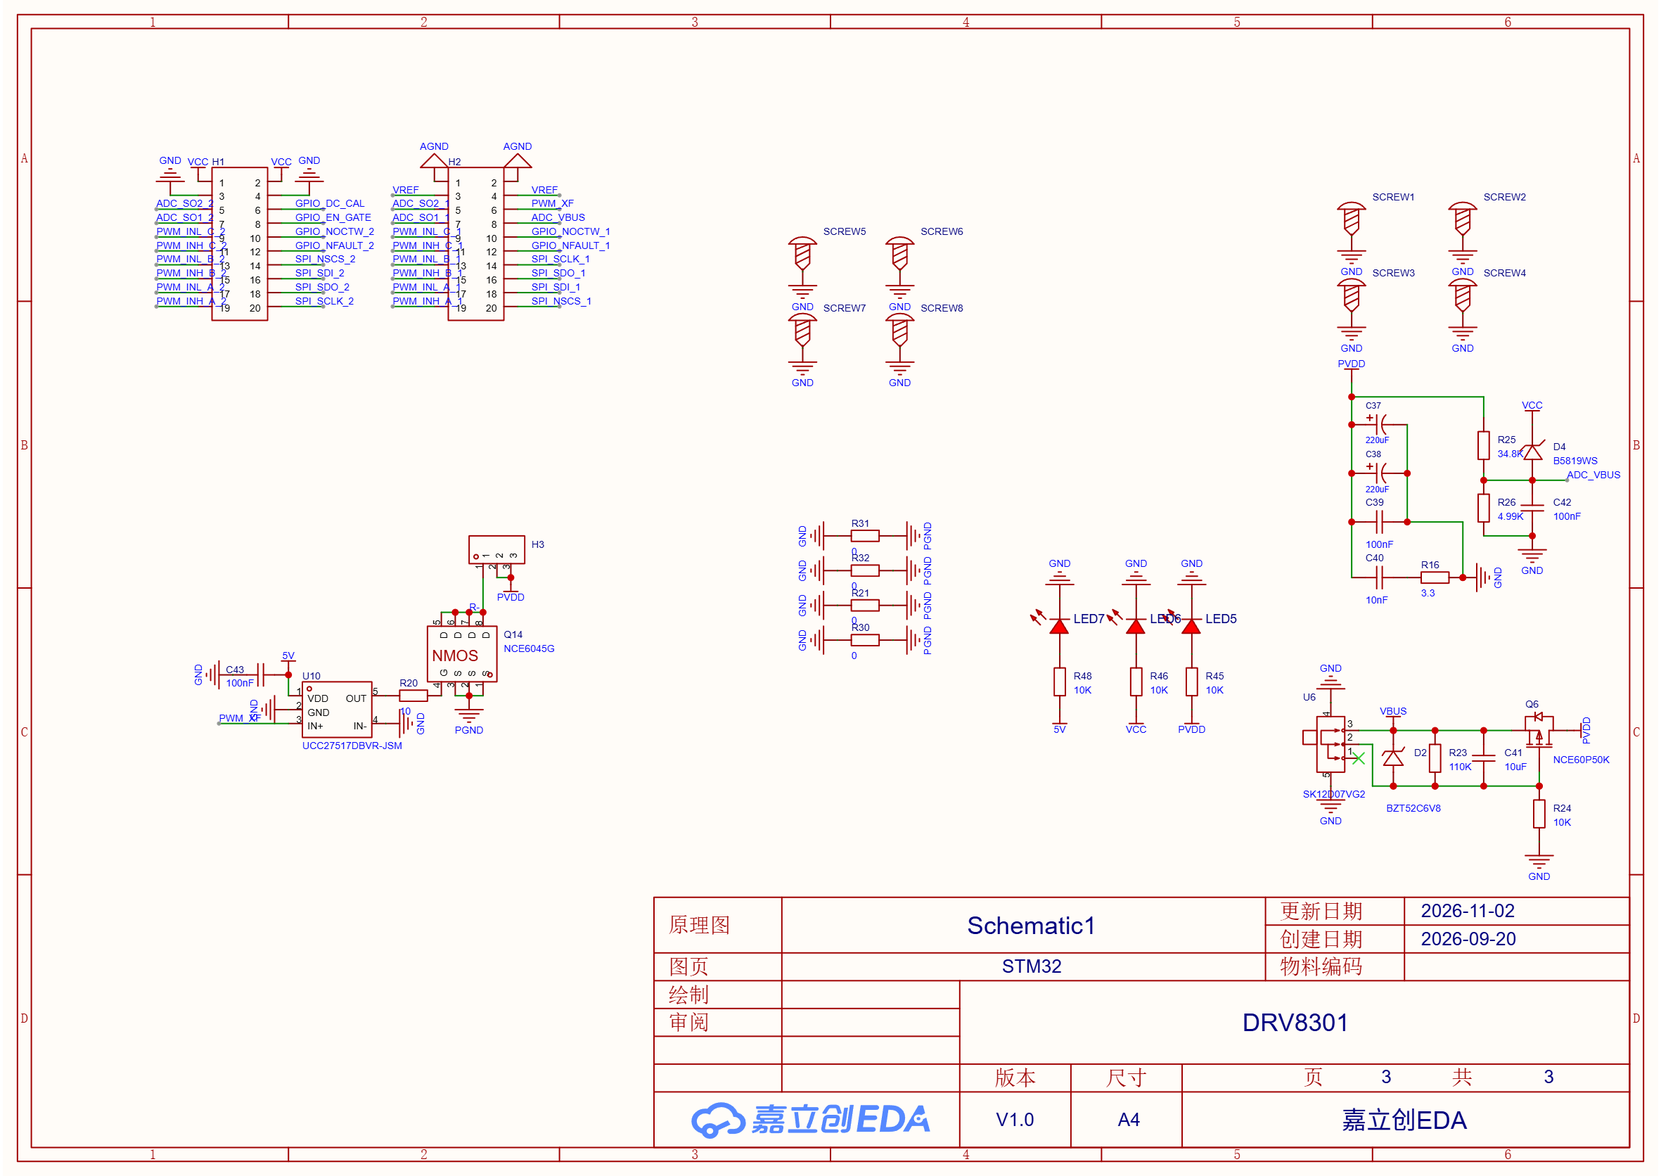
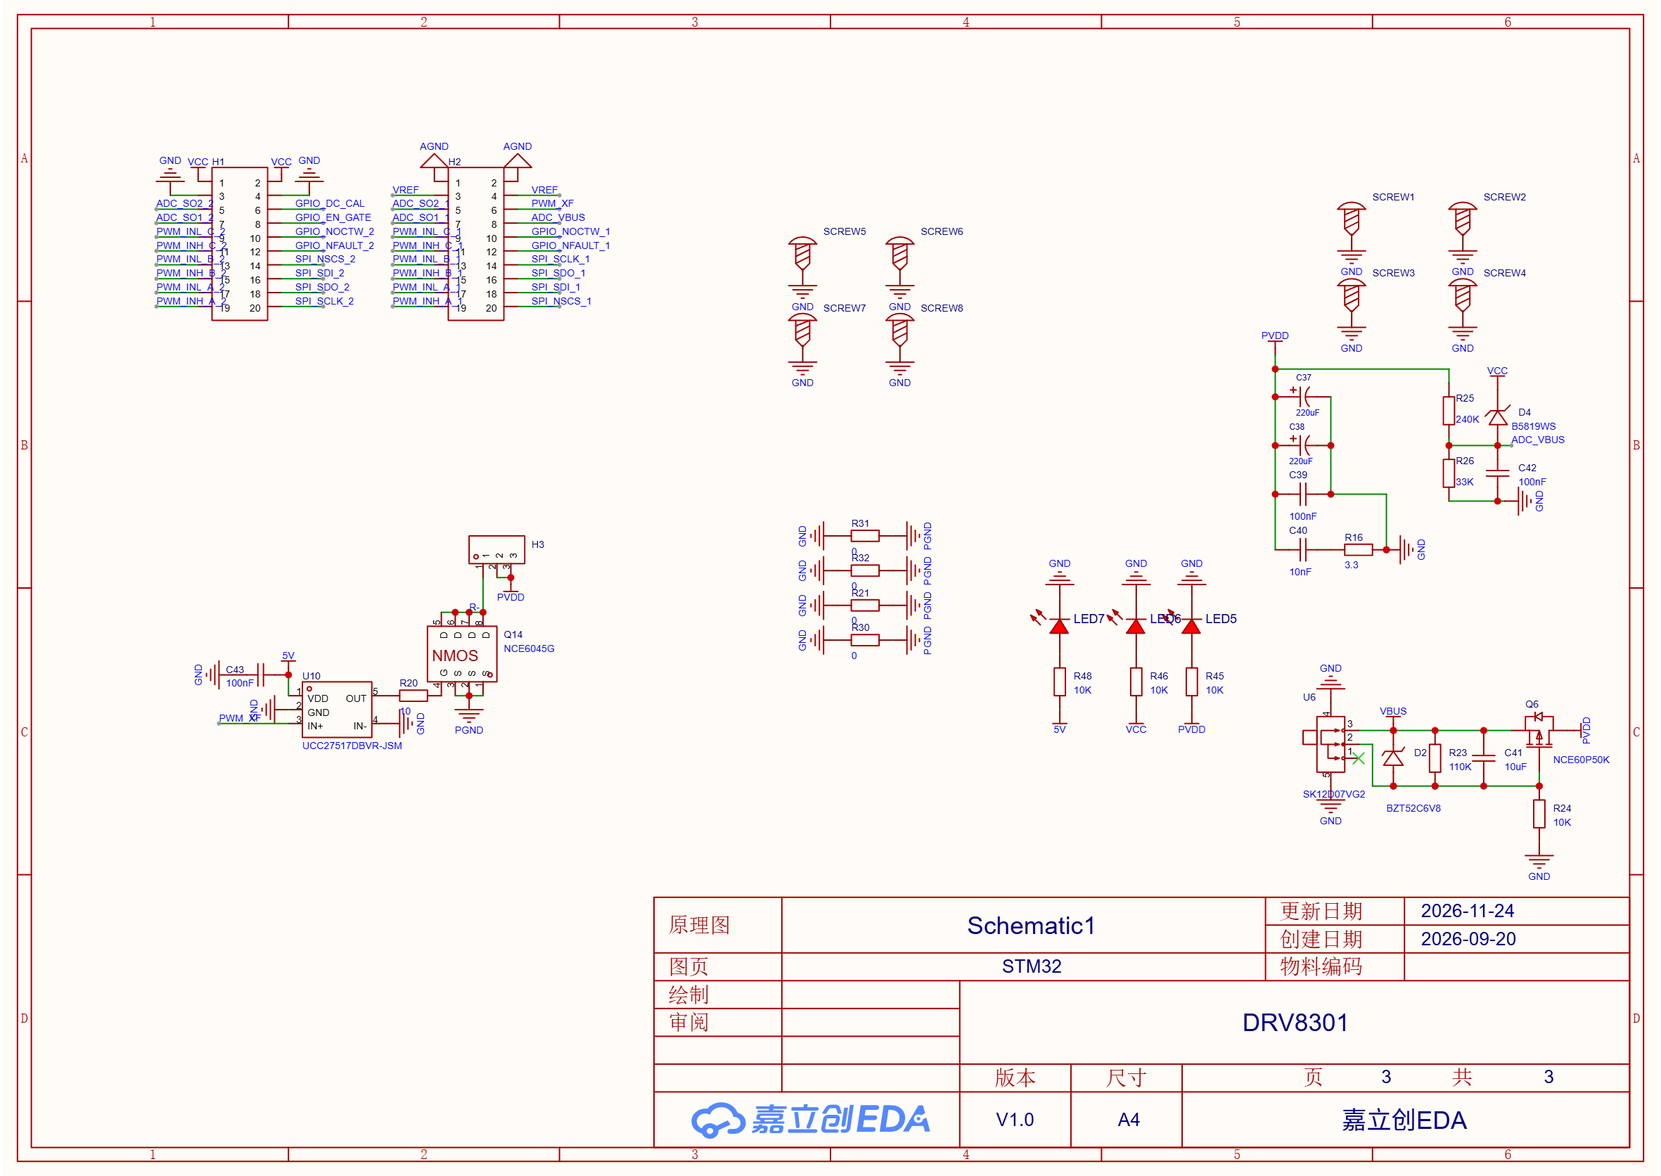
fix: 修正母线采样并支持无母线调试
- 实物分压 240k/33k（原理图已更新）：满量程 27.5 V、源阻抗 ≈29kΩ、
  τ≈2.9ms；adc.c 注释、参数文档、设计方案、hardware README 与
  实现指南 HTML 一并同步
- 母线电压读取提前到 EN_GATE 之前；nFAULT 超时后仅在两片都只有
  GVDD_UV/PVDD_UV 时降级继续，其余故障仍停机——无母线也能做
  SPI/ADC 开发，安全检查不削弱
- 回填 2026-11-24 验证：vbus 25.1V 对电池 24.9V，SO/DC_CAL/DRV
  正常；记录 R25/R26 焊反导致顶格的排查结论

验证：UV4 构建 0 错 0 警

Changed region(s): [[0.7727, 0.311, 0.9581, 0.4976]]

diff --git a/docs/天鹅座-电驱固件实现指南.html b/docs/天鹅座-电驱固件实现指南.html
@@ -424,7 +424,7 @@ footer code { color: var(--ink); }
   <tbody>
     <tr><td>PA0 / PA1</td><td>ADC1_IN1 / IN2（注入组）</td><td>M1_IA / M1_IB（DRV8301-1 SO1/SO2）</td><td>TIM8_TRGO2（OC5REF）</td></tr>
     <tr><td>PC0 / PC1</td><td>ADC2_IN6 / IN7（注入组）</td><td>M2_IA / M2_IB（DRV8301-2 SO1/SO2）</td><td>TIM1_TRGO2（OC5REF）</td></tr>
-    <tr><td>PC2</td><td>ADC1_IN8（规则组）</td><td>VBUS_SENSE（100k+10k 分压，满量程 36.3 V）</td><td>软件触发</td></tr>
+    <tr><td>PC2</td><td>ADC1_IN8（规则组）</td><td>VBUS_SENSE（240k+33k 分压，满量程 27.5 V）</td><td>软件触发</td></tr>
     <tr><td>PB0 / PB1</td><td>ADC1_IN15 / IN12（规则组）</td><td>电机 NTC ×2</td><td>软件触发</td></tr>
     <tr><td>PC3</td><td>ADC2_IN9（规则组）</td><td>母线总电流（预留）</td><td>软件触发</td></tr>
   </tbody>
@@ -604,7 +604,7 @@ uint16_t ib = HAL_ADCEx_InjectedGetValue(&amp;hadc1, ADC_INJECTED_RANK_2);
     <p><code>HAL_GPIO_WritePin(EN_GATE…)SET</code>，然后轮询 <code>GPIOA-&gt;IDR bit15</code> 与 <code>GPIOD-&gt;IDR bit2</code> 都为高。引脚是 AF 模式（BKIN），但 IDR 在 AF 输入下照样反映电平，直接读即可。超时（20~50 ms 量级）判失败。</p>
     <p><b>为什么等</b>：EN_GATE 拉高后芯片约 5~10 ms SPI 才就绪；nFAULT 变高表示可接收 PWM。EN_GATE 低电平期间 SPI 不可用（内部稳压器休眠）。</p></li>
   <li><span class="t">DRV8301 配置并读回校验</span>
-    <p>两片逐个：SPI 切 DRV 模式 → 写 CTRL1（<b>OC_MODE=锁存关断</b>、<b>增益 40 V/V</b>、6-PWM 模式、驱动电流）→ 写 CTRL2 → 读回比对 → 切回编码器模式。<b>先配再开 PWM，任何情况下不例外。</b>寄存器细节见第 8 节。</p></li>
+    <p>两片逐个：SPI 切 DRV 模式 → 写 CTRL1（<b>OC_MODE=锁存关断</b>、<b>增益 10 V/V</b>、6-PWM 模式、驱动电流）→ 写 CTRL2 → 读回比对 → 切回编码器模式。<b>先配再开 PWM，任何情况下不例外。</b>寄存器细节见第 8 节。</p></li>
   <li><span class="t">DC_CAL 读零点</span>
     <p>PB10 拉高 → 注入两通道读数应 ≈2048（±5% 起步）→ 存到电机结构 → PB10 拉低。</p>
     <p><b>为什么此时能读</b>：DC_CAL 高时 SO 输出固定为 REF 电平（1.65 V）；<b>必须在 EN_GATE 之后</b>——EN_GATE 才使能采样放大器。偏离过多说明 DRV 或采样链有问题，停。</p>
@@ -671,7 +671,7 @@ void HAL_TIMEx_BreakCallback(TIM_HandleTypeDef *htim)
 <h3>电流换算</h3>
 <pre class="codeblk"><span class="c">/* 每 LSB 的电流（3.3V 参考） */</span>
 V_LSB  = VDDA_real / 4095;                <span class="c">/* ≈ 0.806 mV */</span>
-I_PER_LSB = V_LSB / (G × Rs)              <span class="c">/* G=40 V/V, Rs=0.25 mΩ → ≈ 0.081 A/LSB */</span>
+I_PER_LSB = V_LSB / (G × Rs)              <span class="c">/* G=10 V/V, Rs=1 mΩ → ≈ 0.081 A/LSB */</span>
 I_a = (raw_ia - I_zero_ia) * I_PER_LSB;    <span class="c">/* I_zero 来自 DC_CAL（≈2048） */</span>
 <span class="c">/* 满量程：对称约 ±135 A——负向受 SO 线性下限 0.3V 限制。小电流段精度差是预期的。 */</span></pre>
 
@@ -708,7 +708,7 @@ I_a = (raw_ia - I_zero_ia) * I_PER_LSB;    <span class="c">/* I_zero 来自 DC_C
 <h2 id="drv"><span class="n">8</span>DRV8301 驱动</h2>
 <ul>
   <li><strong>帧格式</strong>：16 位 SPI 帧（bit15 = R/W，bit14~11 = 地址，bit10~0 = 数据）。<strong>读要两帧</strong>：第 N 帧发命令、第 N+1 帧收数据。</li>
-  <li><strong>必配项（CTRL1）</strong>：<code>OC_MODE = OC latch shut down</code>（默认逐周期限流不拉 nFAULT，BKIN 链会静默失效）、<code>OC_ADJ_SET</code> 按 RDS(on) × 跳闸电流查 SLOS719F Table 13、<b>增益 40 V/V</b>（默认 10，必须显式写）、<b>6-PWM 模式</b>、栅极驱动电流。</li>
+  <li><strong>必配项（CTRL1）</strong>：<code>OC_MODE = OC latch shut down</code>（默认逐周期限流不拉 nFAULT，BKIN 链会静默失效）、<code>OC_ADJ_SET</code> 按 RDS(on) × 跳闸电流查 SLOS719F Table 13、<b>增益 10 V/V</b>（默认 10，必须显式写）、<b>6-PWM 模式</b>、栅极驱动电流。</li>
   <li><strong>CTRL2</strong>：OCP 分档等——按 SLOS719F 配置。</li>
   <li><strong>读回校验</strong>：写完逐个寄存器读回比对，不一致判失败（自检环节，不可省）。</li>
   <li><strong>状态读取</strong>：FAULT 状态位（OC 状态位读后自清——读到立即存入变量）；nOCTW 原因（OTW/OC）同样放主循环。</li>
@@ -750,14 +750,14 @@ I_a = (raw_ia - I_zero_ia) * I_PER_LSB;    <span class="c">/* I_zero 来自 DC_C
     <tr><td>电流环 / PWM</td><td><code>20 kHz</code>（ARR 4249 中心对齐）</td><td>TRGO2 = OC5REF @ 4200</td></tr>
     <tr><td>ADC 内核时钟</td><td><code>42.5 MHz</code>（SYSCLK/4）</td><td>双 ADC 上限 52 MHz</td></tr>
     <tr><td>采样时间</td><td>注入 6.5 cycles（≈0.45 µs/通道）</td><td>规则组 92.5 / VREFINT 247.5</td></tr>
-    <tr><td>分流 / 增益</td><td><code>0.25 mΩ</code> 开尔文 · <code>40 V/V</code></td><td>满量程对称 ≈ ±135 A</td></tr>
+    <tr><td>分流 / 增益</td><td><code>1 mΩ</code> 开尔文 · <code>10 V/V</code></td><td>满量程对称 ≈ ±135 A</td></tr>
     <tr><td>电流换算</td><td>≈ <code>0.081 A/LSB</code>（VDDA=3.3 V）</td><td>零点 ≈ 2048（REF/2 = 1.65 V）</td></tr>
     <tr><td>VDDA 校正</td><td><code>3.000 × VREFINT_CAL / VREFINT_meas</code></td><td>VREFINT_CAL @ 0x1FFF75AA</td></tr>
     <tr><td>调制比</td><td><code>≤ 0.93</code></td><td>台架扫定，低侧窗口预算 2.5 µs</td></tr>
     <tr><td>CAN</td><td><code>500 kbps</code> 经典帧，BRP=1/16tq</td><td>HSE 直连 8 MHz，自动重传开</td></tr>
     <tr><td>IWDG</td><td>P32 / W20 / R40 → 20~40 ms 窗口</td><td>喂狗取 30 ms 中段；<code>MX_IWDG_Init()</code> 序列末显式调用</td></tr>
     <tr><td>泄放</td><td>TIM4 10 kHz 档，PB9_CH4</td><td>滞环阈值待 TVS 定稿（占位 26/25 V）</td></tr>
-    <tr><td>母线量程</td><td>36.3 V（100k+10k 分压）</td><td>6S 满电 25.2 V + 回灌裕量</td></tr>
+    <tr><td>母线量程</td><td>27.5 V（240k+33k 分压）</td><td>6S 满电 25.2 V + 回灌裕量</td></tr>
     <tr><td>死区</td><td>TIM 侧 0（由 DTC 电阻承担 50~500 ns）</td><td>台架示波器实测</td></tr>
   </tbody>
 </table></div>
@@ -795,13 +795,13 @@ I_a = (raw_ia - I_zero_ia) * I_PER_LSB;    <span class="c">/* I_zero 来自 DC_C
   <div class="fix"><span class="tag">对策</span>序列固化：EN_GATE → 等 nFAULT → DC_CAL</div>
 </div>
 <div class="pit">
-  <div class="sym"><span class="tag">坑 7</span>DRV 寄存器写 40 V/V 前先开了 PWM</div>
+  <div class="sym"><span class="tag">坑 7</span>DRV 寄存器写 10 V/V 前先开了 PWM</div>
   <div class="why"><span class="tag">机理</span>默认增益 10 V/V、默认 OCP 是逐周期限流；未配的 DRV 上桥等于保护链裸奔</div>
   <div class="fix"><span class="tag">对策</span>先配 CTRL1/2 并读回校验，再置 MOE。此顺序写入方案 3.2 第 7 条</div>
 </div>
 <div class="pit">
   <div class="sym"><span class="tag">坑 8</span>拿小电流段的精度差当电流环故障</div>
-  <div class="why"><span class="tag">机理</span>0.25 mΩ × 40 V/V 下 1 A 只有 10 mV，噪声占比大——是分流方案的预期行为</div>
+  <div class="why"><span class="tag">机理</span>1 mΩ × 10 V/V 下 1 A 只有 10 mV，噪声占比大——是分流方案的预期行为</div>
   <div class="fix"><span class="tag">对策</span>只在 &gt;10 A 段评估电流环；小电流段的问题交给外环</div>
 </div>
 <div class="pit">

diff --git a/g431-drive/code/app.c b/g431-drive/code/app.c
@@ -94,22 +94,63 @@ static void reset_cause_print(void)
     __HAL_RCC_CLEAR_RESET_FLAGS();
 }
 
-/* ADC 采样自检（交接文档 2026-11-23）：用软件替代万用表——
-   VBUS 对照限流源、四路 SO 与 DC_CAL 零点、两片 DRV 状态。
-   数值异常只打印不阻塞（阶段 0/1 不接母线时 VBUS=0 属正常），
-   只有 HAL 超时（采样链路硬故障）才停机。
-   须在 EN_GATE 拉高、PWM 未开时调用（设计方案 3.2 第 7 条） */
-static void app_adc_selftest(void)
+/* 母线电压先读（不依赖 EN_GATE）：无电池时也能核对采样链路。
+   数值异常只打印，不做判据；只有 HAL 超时才停机 */
+static void app_vbus_probe(void)
 {
     float    vbus_v  = 0.0f;
     uint32_t vdda_mv = 0U;
-    uint16_t so[ADC_SO_COUNT] = {0};
-    uint16_t dc[ADC_SO_COUNT] = {0};
 
     if (!adc_vbus_read(&vbus_v, &vdda_mv))
     {
         app_fatal(5U);
     }
+
+    /* 整数 mV 打印：不引入 MicroLIB 浮点 printf */
+    printf("adc: vdda=%lumV vbus=%lumV\r\n",
+           (unsigned long)vdda_mv,
+           (unsigned long)((uint32_t)(vbus_v * 1000.0f + 0.5f)));
+}
+
+/* nFAULT 未释放时的降级判据：DRV8301 无 PVDD 时 GVDD 欠压会把 nFAULT
+   拉低，这是芯片保护而非故障。仅当两片状态都是「至少一个欠压位、
+   无 OC/OTSD/OTW、无 GVDD_OV」时才放行；SPI 不通也算不放行。
+   真实故障（过流/过温/栅极过压）仍然停机，安全检查不被削弱 */
+static bool app_drv_uv_only(void)
+{
+    for (uint8_t dev = (uint8_t)DRV_DEV_1; dev < (uint8_t)DRV_DEV_COUNT; dev++)
+    {
+        DrvStatus st = {0};
+        uint16_t  uv;
+
+        if (!drv8301_status((DrvDev)dev, &st))
+        {
+            return false;
+        }
+
+        uv = st.status1 & (DRV_ST1_GVDD_UV | DRV_ST1_PVDD_UV);
+        if ((uv == 0U) ||
+            ((st.status1 & ~(DRV_ST1_FAULT | DRV_ST1_GVDD_UV | DRV_ST1_PVDD_UV)) != 0U) ||
+            ((st.status2 & DRV_ST2_GVDD_OV) != 0U))
+        {
+            return false;
+        }
+        printf("drv%u: nFAULT low, st1=%04X st2=%04X (bus uv)\r\n",
+               (unsigned int)(dev + 1U),
+               (unsigned int)st.status1,
+               (unsigned int)st.status2);
+    }
+    return true;
+}
+
+/* ADC 采样自检：四路 SO 与 DC_CAL 零点、两片 DRV 状态。
+   数值异常只打印不阻塞，只有 HAL 超时（采样链路硬故障）才停机。
+   须在 EN_GATE 拉高、PWM 未开时调用（设计方案 3.2 第 7 条） */
+static void app_adc_selftest(void)
+{
+    uint16_t so[ADC_SO_COUNT] = {0};
+    uint16_t dc[ADC_SO_COUNT] = {0};
+
     if (!adc_phase_offset_read(so))
     {
         app_fatal(5U);
@@ -119,10 +160,6 @@ static void app_adc_selftest(void)
         app_fatal(5U);
     }
 
-    /* 整数 mV / 原始码打印：不引入 MicroLIB 浮点 printf */
-    printf("adc: vdda=%lumV vbus=%lumV\r\n",
-           (unsigned long)vdda_mv,
-           (unsigned long)((uint32_t)(vbus_v * 1000.0f + 0.5f)));
     printf("adc: so=%u %u %u %u\r\n",
            (unsigned int)so[ADC_SO_M1_IA], (unsigned int)so[ADC_SO_M1_IB],
            (unsigned int)so[ADC_SO_M2_IA], (unsigned int)so[ADC_SO_M2_IB]);
@@ -168,6 +205,9 @@ void app_init(void)
         app_fatal(2U);
     }
 
+    /* 母线电压先读：不依赖功率级，无电池时也能看到采样链路读数 */
+    app_vbus_probe();
+
     /* SPI 总线：四路 CS 拉高、两条总线置编码器常态档 */
     spi_bus_init();
 
@@ -177,7 +217,14 @@ void app_init(void)
     drv8301_enable();
     if (!drv8301_wait_ready(APP_DRV_READY_TIMEOUT_MS))
     {
-        app_fatal(3U);
+        /* 无母线时 GVDD 欠压会让 nFAULT 一直为低（芯片保护）。只在
+           两片都只有欠压位时放行，让无母线的 SPI/ADC 开发不被挡住；
+           其余故障仍按原序列停机 */
+        if (!app_drv_uv_only())
+        {
+            app_fatal(3U);
+        }
+        printf("warn: bus undervoltage, continue without power stage\r\n");
     }
     for (uint8_t dev = (uint8_t)DRV_DEV_1; dev < (uint8_t)DRV_DEV_COUNT; dev++)
     {

diff --git a/docs/交接-2026-11-23.md b/docs/交接-2026-11-23.md
@@ -9,13 +9,20 @@
 电驱板上电自检通过（串口 `init: ok`）：时钟、ADC 校准、SPI 总线、
 EN_GATE、两片 DRV8301 配置与读回校验全部通过。编译 0 错 0 警。
 
+2026-11-24：ADC 采样层落地并通过上电自检——规则组 VBUS/VREFINT、
+注入组四路 SO 零点与 DC_CAL 全部正常；实测 `vbus=25.1V` 对电池
+24.9 V（偏差 0.9%，在电阻容差与万用表误差内）。母线分压实物为
+**240k/33k**（满量程 ≈27.5 V，源阻抗 ≈29kΩ、τ≈2.9ms），原理图与
+文档已同步；排查中发现 R25/R26 焊反会把分压点推到 ≈22 V、被 PC2
+保护二极管钳在 3.5 V，表现为 VBUS 恒顶格。
+
 **已实现**（`g431-drive/code/`）：
 
 | 文件 | 内容 |
 | --- | --- |
 | `spi.c/h` | 总线层：四路 CS；运行时切换 CR1（DRV 档 Mode1 /64 = 2.66 MHz ↔ 编码器档 Mode3 /32 = 5.31 MHz）；16 位帧拆两次单字节收发 |
 | `drv8301.c/h` | 寄存器层：16 位帧（R/W + 4 位地址 + 11 位数据）、读两帧、帧错误位与地址回显校验、CTRL1/CTRL2 配置 + 读回（3 次重试）、EN_GATE 与 nFAULT 等待、GATE_RESET 清故障、DC_CAL 控制、失败分支诊断日志 |
-| `adc.c/h` | ADC 封装：`adc_init()` 两路校准；注入组、规则组、DC_CAL 零点后续都归此模块 |
+| `adc.c/h` | ADC 封装：两路校准；规则组 VBUS/VREFINT 换算（240k/33k）、注入组四路 SO 零点、DC_CAL 自检；注入组软件触发前临时清 `JSQR.JEXTEN`（外部触发下 JADSTART 不会立即启动） |
 | `app.c` | 上电序列：复位原因 → 时钟自检 → ADC 校准 → SPI 总线 → EN_GATE → 等 nFAULT → DRV 配置读回 → `init: ok` → IWDG 最末；失败 LED 慢闪步号（1 时钟 / 2 ADC / 3 nFAULT 超时 / 4 DRV 读回） |
 
 **CubeMX 改动**（已重新生成并编译验证）：SPI 六脚（PA5~PA7、PB3~PB5）
@@ -49,7 +56,9 @@ GPIO 速度 Low → Medium；IWDG 的 Generate Function Call 仍不勾。
 
 ## 四、下一步（按优先级）
 
-### 1. ADC 采样层（`code/adc.c/h`，不需要电机）
+### 1. ADC 采样层（`code/adc.c/h`，不需要电机）——2026-11-24 已完成
+
+上电验证通过（判据与结果见第五节），以下配置说明保留备查。
 
 CubeMX 已配好（`Core/Src/adc.c`）：
 
@@ -63,7 +72,7 @@ CubeMX 已配好（`Core/Src/adc.c`）：
 要做的：
 
 - `adc_vbus_read()`：VBUS raw → VREFINT 反推 VDDA（`3.000 × CAL / meas`）→
-  `V_bus = V_adc × 39.59 / 4.99`
+  `V_bus = V_adc × (240 + 33) / 33`（实物分压 240k/33k）
 - `adc_phase_offset_read()`：四路 SO 原始码，期望 ≈2048（用户要求用软件
   替代万用表，上电自检打印）
 - `adc_dc_cal()`：拉 PB10 → 读 → 拉低
@@ -79,8 +88,8 @@ CubeMX 已配好（`Core/Src/adc.c`）：
 ### 3. 文档同步
 
 实现指南 HTML（`docs/天鹅座-电驱固件实现指南.html`）旧值：
-40 V/V → **10 V/V**、0.25 mΩ → **1 mΩ**、36.3 V → **26.2 V**、
-100k+10k → **34.6k + 4.99k**
+40 V/V → **10 V/V**、0.25 mΩ → **1 mΩ**、36.3 V → **27.5 V**、
+100k+10k → **240k + 33k**（2026-11-25 已同步）
 
 ### 4. 待定表既有项（技术方案「待定事项」）
 
@@ -91,14 +100,19 @@ DBC 帧契约（阻塞 M1 联调）、θ_max、台架期倾角守卫、`can_port
 
 - 2026-11-23 上电：`reset: SFT PIN` → `init: ok`
   （步号 4 曾因位布局错误失败，修正 CTRL1 后通过）
+- 2026-11-24 ADC 自检上电通过：`vdda=3322mV vbus=25126mV`，
+  `so=2039 2044 2042 2043`、`dccal=2041 2048 2042 2046`，
+  两片 `st1=0000 st2=0001`，`init: ok`；电池实际 24.9 V，偏差 0.9%
+- 2026-11-24 排查记录：VBUS 曾恒顶格（raw 4095），不接电池时读数
+  ≈VCC−0.2V、3S 与 6S 读数完全相同。根因是 R25/R26 焊反（上臂 33k、
+  下臂 240k），分压点被推到 ≈22V 后由 PC2 保护二极管钳在 3.5V；
+  改正后读数随电池电压正确变化
 - 构建：UV4 命令行 `-b ... -j0 -o ...`，exit 0 = 0 错 0 警
 - 硬件验证（可选、未做）：万用表项均可由 ADC 自检覆盖；示波器项
   （SPI 波形）读回校验通过即已证明，PWM 波形留到 TIM 启动后
 
 ## 六、工程状态
 
-- 未提交改动：`g431-drive/CLAUDE.md`、`g431-drive/Core/Src/spi.c`、
-  `g431-drive/MDK-ARM/g431_drive.uvprojx`、`g431-drive/code/*`、
-  `g431-drive/g431_drive.ioc`、`.gitignore`
-- 未跟踪：`g431-drive/code/adc.c/h`
+- 2026-11-23 的驱动层与 2026-11-24 的 ADC 层改动已提交（1d36fae）
+- 母线分压同步与验证记录 2026-11-25 提交
 - 构建日志 `MDK-ARM/build_verify.log` 已加入 `.gitignore`

diff --git a/docs/天鹅座-STM32G431RBT6_双电机FOC设计方案.md b/docs/天鹅座-STM32G431RBT6_双电机FOC设计方案.md
@@ -225,8 +225,8 @@
 > | 死区电阻 R_DTC   | 0~150kΩ（初值 50~100kΩ ≈ 200~350ns，按 MOSFET t_off 核） | 接 DRV8301 DTC 脚到 GND，**必配**：芯片内部死区由此设定（50~500ns，短路为最小 50ns，SLOS719F Table 3） |
 > | CAN 收发器       | **SN65HVD230 / TJA1051T/3**   | 3.3V 供电、3.3V IO，与 PA11/PA12 直连（**收发器 TXD/D 是输入、接 MCU 的 CAN_TX；RXD/R 是输出、接 MCU 的 CAN_RX——引脚名相似，接反的现象是总线完全不通**）；需 120Ω 终端电阻；**模式引脚接死、不得浮空**（实物 SN65HVD230：RS 经 R50 10kΩ 下拉 = **斜率控制模式**，500 kbps 下可用、台架验证；TJA1051 的 S 接 GND = 正常模式）；**收发器 TXD 外部 10kΩ 上拉到 3.3V**——MCU 复位与 FDCAN 初始化期间 PA12 呈高阻，上拉保证总线保持隐性（与 EN_GATE 外部下拉同理，不可省）。TJA1050 是 5V 器件：PA11 虽是 FT（5V 容忍）脚、电平灌入不致命，但它需另供 5V、RXD 阈值按 5V 设计，仍不推荐 |
 > | 晶振负载电容     | **12pF** NPO × 2（实物）      | 8MHz 晶振两个对地电容；负载电容影响起振裕量与频率偏差，而 HSE 还喂 FDCAN 位时序——按晶振规格书核对 |
-> | 母线电压分压电阻 | **34.6kΩ + 4.99kΩ（实物）**   | PC2 接分压电路，满量程 **≈26.2 V**（`V_bus = V_adc × 39.59/4.99`）；6S 满电 25.2 V 时 ≈3.18 V——**回灌抬升 +0.5 V 已贴近 3.3 V，超过 ≈26.2 V 读数顶格**（软件按满量程判超限，丢分辨率不损坏 ADC；VBUS 标定用实测分压比） |
-> | 分压点滤波电容   | 100nF 0805                    | PC2 对地并 100nF（实物 C42）：既是 RC 滤波，也把 **4.36kΩ**（34.6k∥4.99k）源阻抗降下来；注意 4.36kΩ×100nF 时间常数 **≈0.44ms**，电压监测/保护按此滞后设计 |
+> | 母线电压分压电阻 | **240kΩ + 33kΩ（实物，2026-11-24 核对）**   | PC2 接分压电路，满量程 **≈27.5 V**（`V_bus = V_adc × 273/33`）；6S 满电 25.2 V 时 ≈3.05 V，留约 2.3 V 余量，回灌抬升不易顶格（软件按满量程判超限，丢分辨率不损坏 ADC；VBUS 标定用实测分压比） |
+> | 分压点滤波电容   | 100nF 0805                    | PC2 对地并 100nF（实物 C42）：既是 RC 滤波，分压源阻抗为 **≈29kΩ**（240k∥33k）；注意 29kΩ×100nF 时间常数 **≈2.9ms**，电压监测/保护按此滞后设计 |
 > | 泄放 MOSFET      | **Q14 NCE6045G（实物）**，配 **U10 UCC27517 单通道栅极驱动**（R20 10Ω 入栅） | 链路：主控板 PB9（TIM4_CH4）→ 网络 **PWM_XF 经 H1/H2 排针** → 驱动板 U10 → R20 → Q14 栅极；源极接地、漏极接功率电阻。**栅极下拉见原理图（驱动器侧），不可省**——复位窗口必须保持关断，否则电池经功率电阻直接短路放电 |
 > | 耗散功率电阻     | 多个电阻并联，总值与功率按《参数与配置》2.2 核算 | 接 VBUS 与 MOSFET 漏极之间，**紧贴母线电容布局**（回路电感会在开关瞬间顶出尖峰）；漏源并 TVS 吸收关断尖峰——绕线/水泥电阻都有寄生电感 |
 >

diff --git a/hardware/README.md b/hardware/README.md
@@ -36,5 +36,5 @@
   Schematic1 V1.0。
 - 已按图核对并落档的实物事实：分流电阻 **1 mΩ**（固件增益 10 V/V）、晶振负载
   **12 pF**、仅 DRV8301-1 用内部 Buck（5V → TLV1117 → 3.3V）、SN65HVD230 RS 经
-  10kΩ 下拉（斜率控制）、母线分压 **34.6k/4.99k（满量程 ≈26.2 V）**、CN2 仅 2pin
+  10kΩ 下拉（斜率控制）、母线分压 **240k/33k（满量程 ≈27.5 V）**、CN2 仅 2pin
   无 120Ω、BOOT0 无拉高点、电源入口 P-MOS 反接保护、泄放经 UCC27517 驱动。
